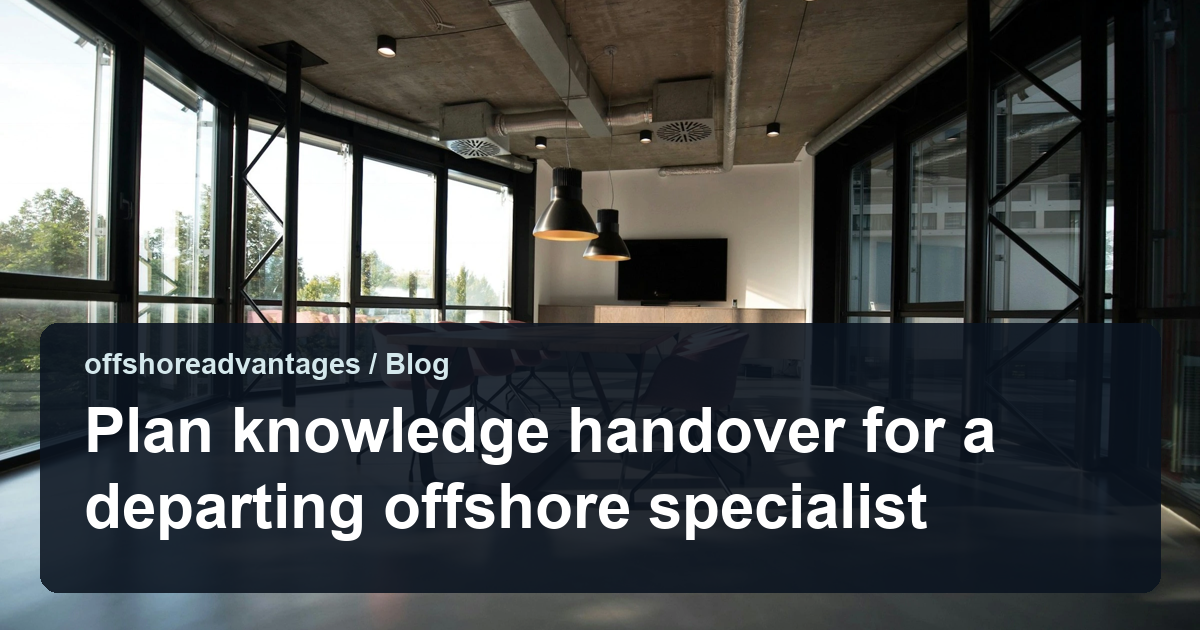
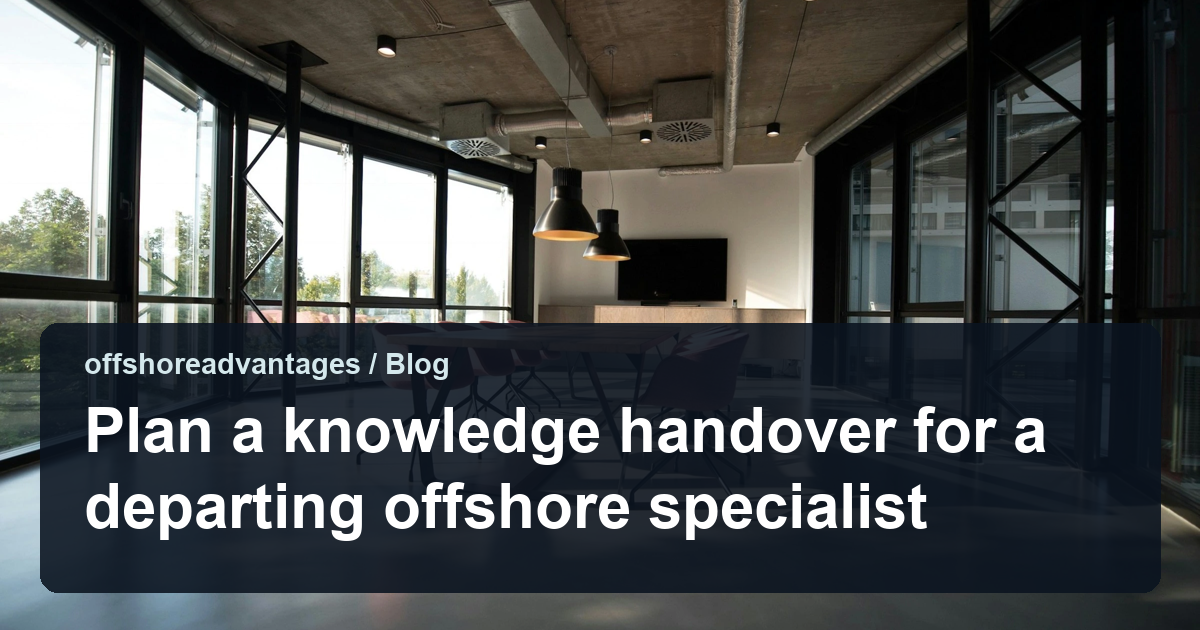
fix: align November 16 handover headline with its URL

Changed region(s): [[0.185, 0.6333, 0.8942, 0.754]]

diff --git a/app/campaign-2026-11-16-blog.ts b/app/campaign-2026-11-16-blog.ts
@@ -61,8 +61,8 @@ export const november16BlogPosts = [
   },
   {
     "slug": "plan-a-knowledge-handover-for-a-departing-offshore-specialist",
-    "title": "Plan knowledge handover for a departing offshore specialist",
-    "excerpt": "A departing specialist knowledge handover that names the decision, the evidence, and the owner Revisit the rule with one current example before the next client cycle.",
+    "title": "Plan a knowledge handover for a departing offshore specialist",
+    "excerpt": "A departing specialist handover that names the decision, the evidence, and the owner, with one current example checked before the next client cycle.",
     "minutes": 7,
     "image": "/daily16/offshoreadvantages/plan-a-knowledge-handover-for-a-departing-offshore-specialist.png",
     "citations": [
